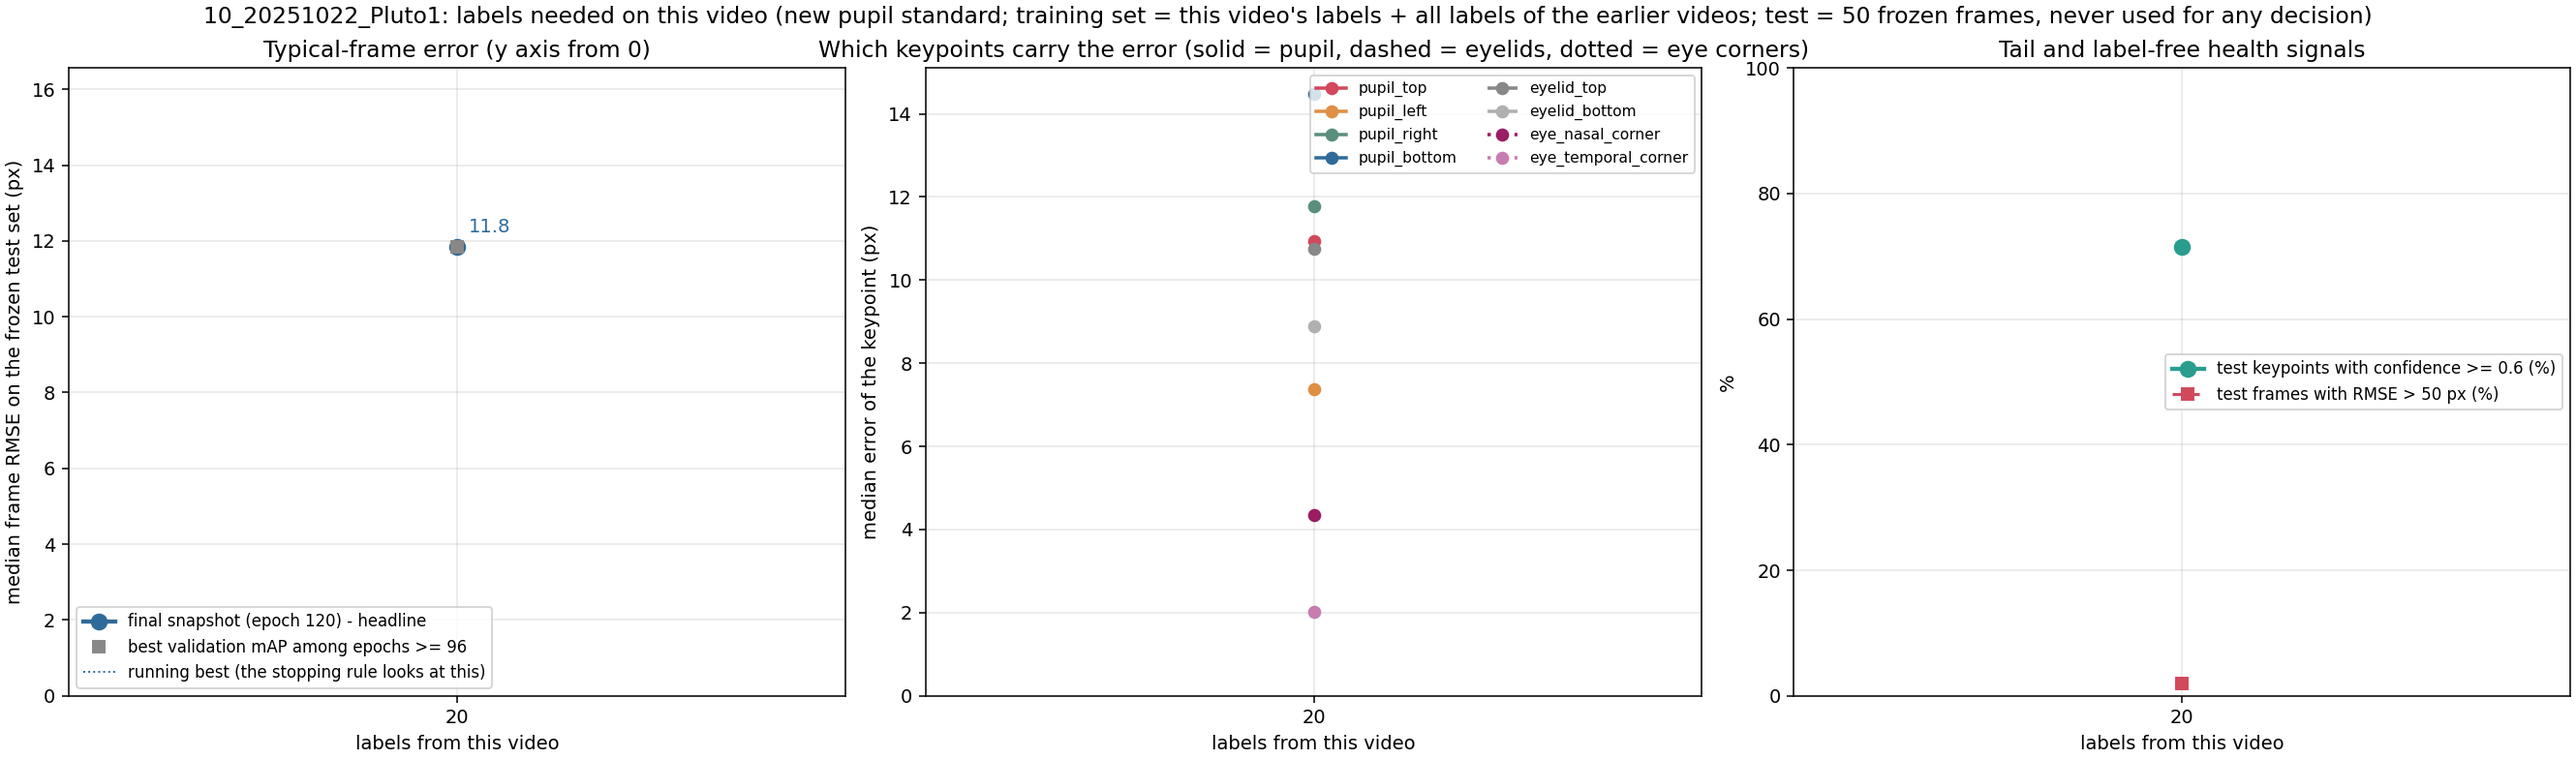
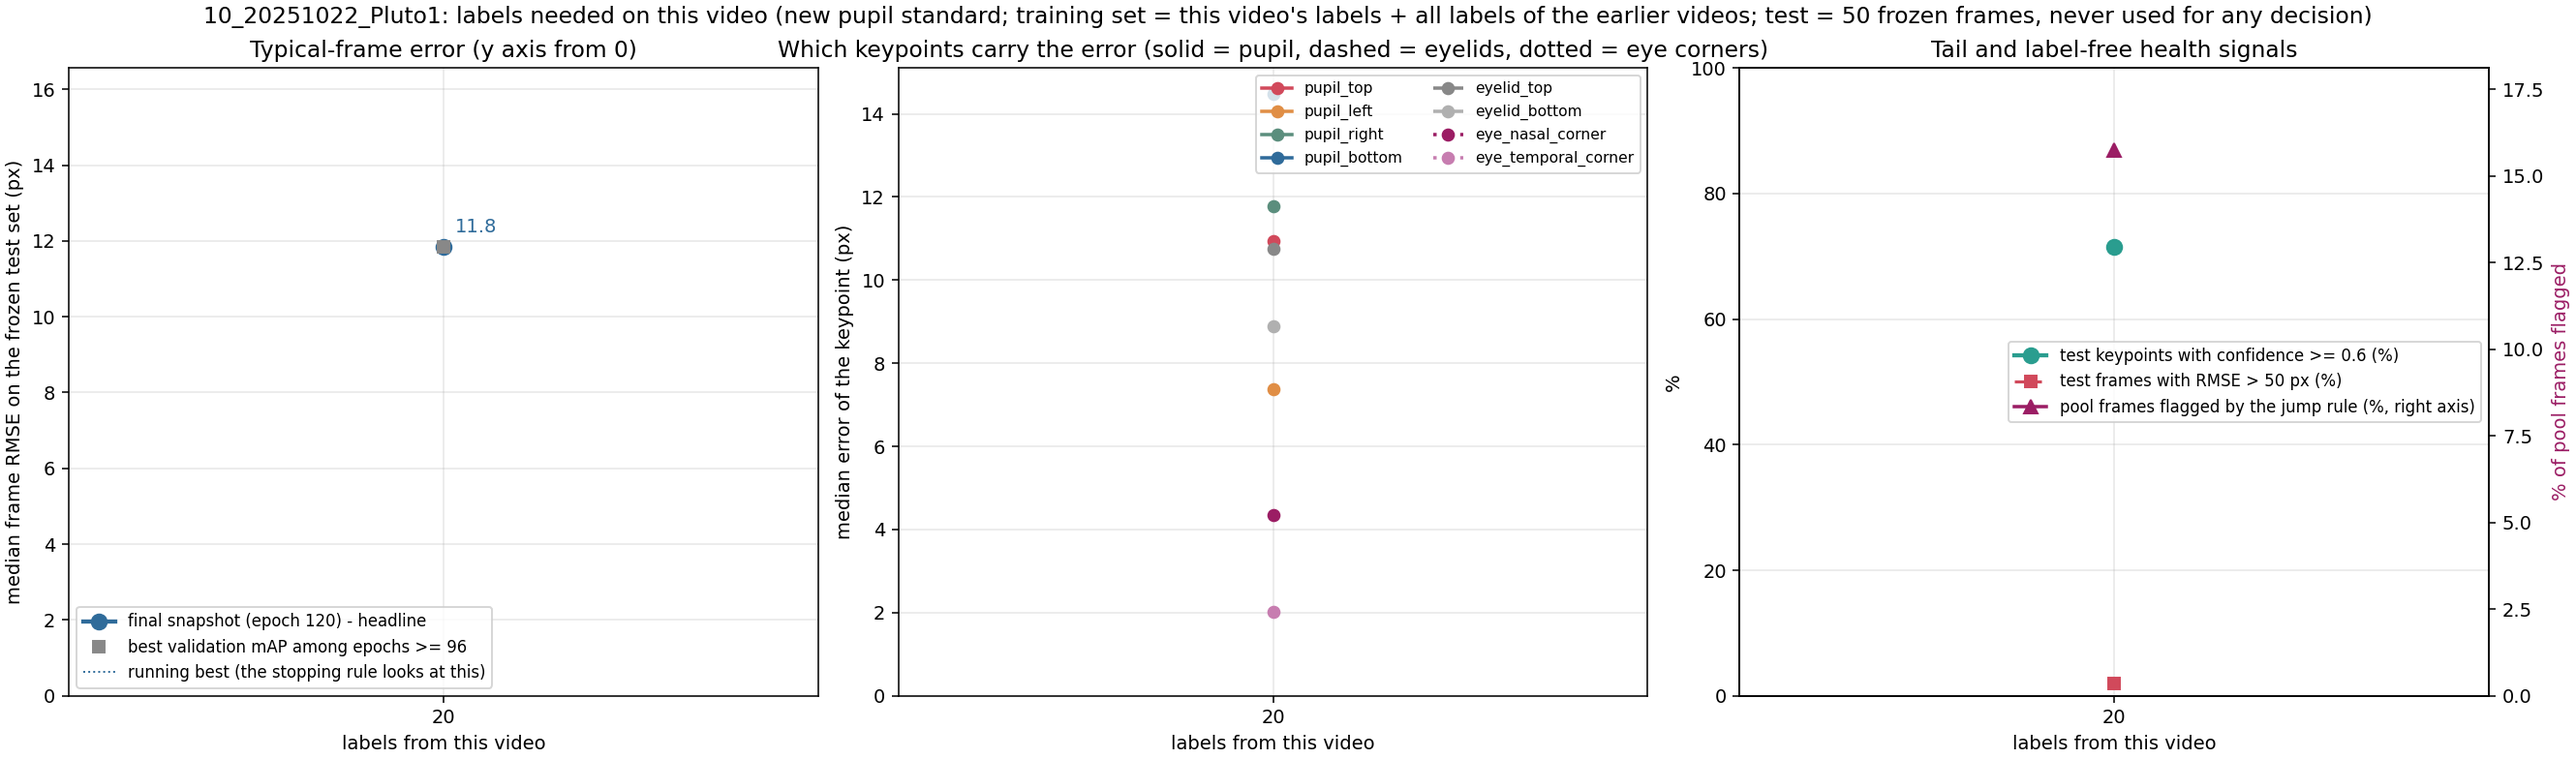
Video 10 v2: batch02 selected (9003 of 57158 pool frames flagged)
Claude-Session: https://claude.ai/code/session_017MK5SWBFFQAu8ejFk1z7fh

diff --git a/v2_new_pupil_top_video_scaling/10_20251022_Pluto1/results/README.md b/v2_new_pupil_top_video_scaling/10_20251022_Pluto1/results/README.md
@@ -10,4 +10,4 @@ batch01: 73 of 160), then the test set was frozen. Training set of every step = 
 | labels of this video | median | p90 | frames > 50 px | keypoints conf >= 0.6 | pool frames flagged by the jump rule |
 |---|---|---|---|---|---|
 | 0 (video-9 80-label model 1014, applied unchanged) | 18.13 px | 32.0 | 8% | 60% | – |
-| 20 (shuffle 1111) | 11.83 px | 27.7 | 2% | 72% | pending |
+| 20 (shuffle 1111) | 11.83 px | 27.7 | 2% | 72% | 9003 of 57158 (15.8%) |
